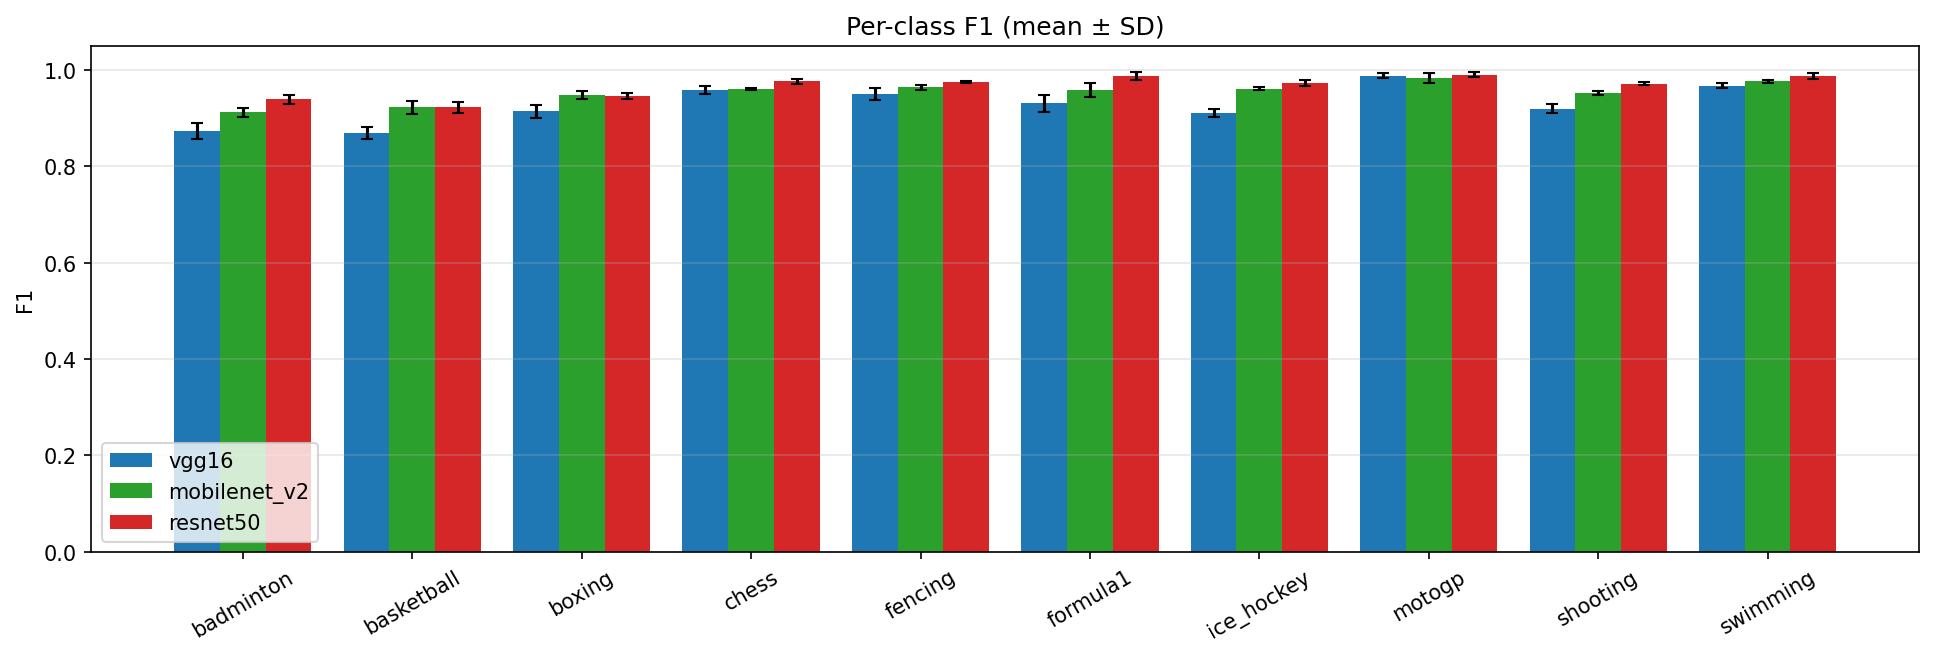
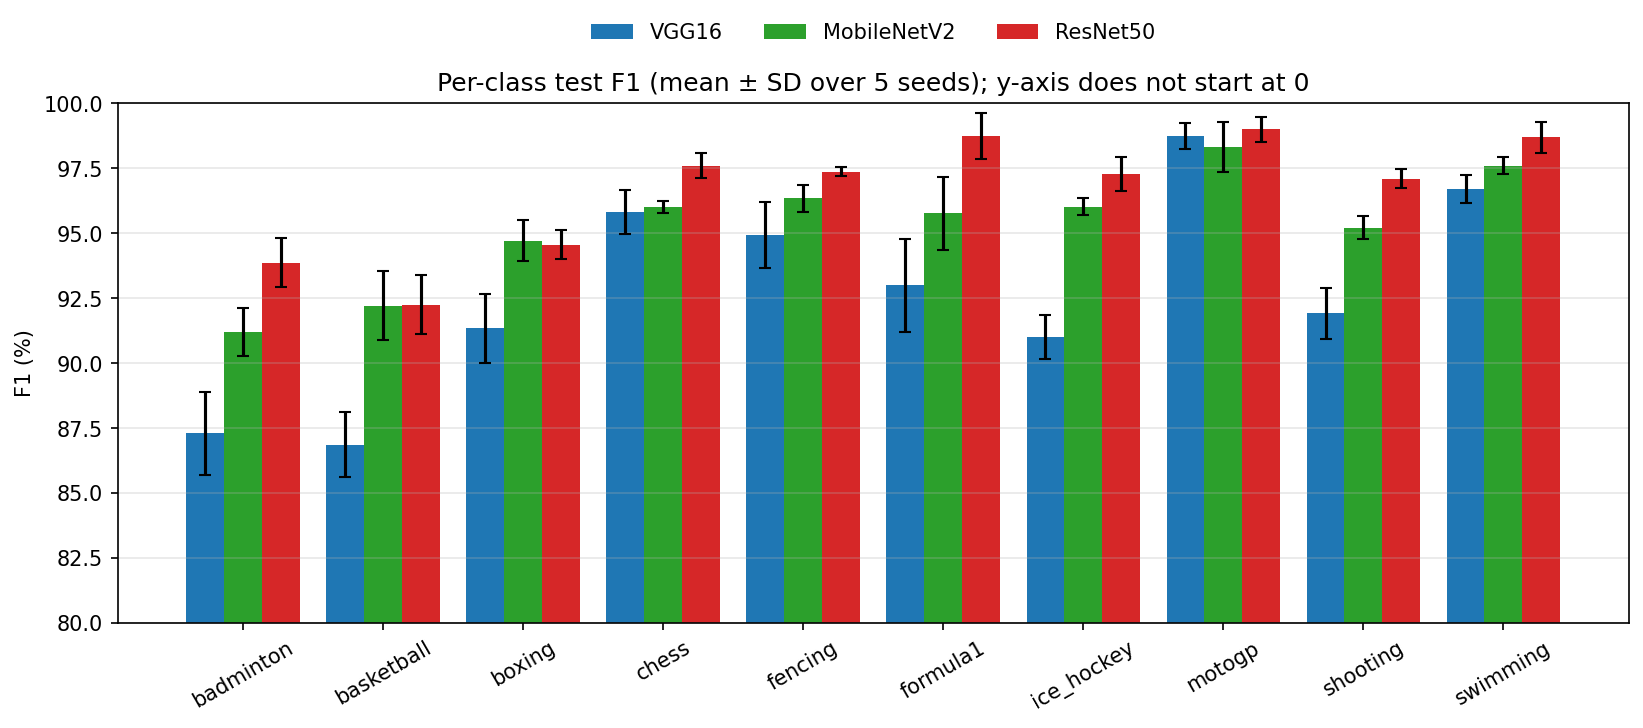
Add scripts to replot figures and log WandB runs
- Introduced `replot_figures.py` to regenerate figures comparing models from CSV data without retraining.
- Added new CSV file `wandb_runs.csv` to log various model training runs and their metrics.
- Updated figures `6_perclass_f1.png` and `7x_strategy_diff.png` to reflect recent changes in model performance.

diff --git a/replot_figures.py b/replot_figures.py
@@ -1,0 +1,69 @@
+"""Redraw the figures that compare models, from the CSVs in outputs/ (no re-training, notebook untouched).
+
+Usage (from the repo root):
+    python replot_figures.py            # overwrites outputs/figs/6_perclass_f1.png and 7x_strategy_diff.png
+
+Every model uses the same colour and display name in every figure (same colours as COLORS in the notebook).
+Note: re-running the notebook overwrites these two PNGs with its own versions; run this script again afterwards.
+"""
+import re
+from pathlib import Path
+
+import matplotlib
+matplotlib.use('Agg')
+import matplotlib.pyplot as plt
+import pandas as pd
+
+OUT = Path('outputs')
+ARCHS = ['vgg16', 'mobilenet_v2', 'resnet50']
+NAMES = {'vgg16': 'VGG16', 'mobilenet_v2': 'MobileNetV2', 'resnet50': 'ResNet50'}
+COLORS = {'vgg16': 'tab:blue', 'mobilenet_v2': 'tab:green', 'resnet50': 'tab:red'}
+
+
+def mean_sd(s):                                   # "87.29 ± 1.58" -> (87.29, 1.58)
+    m, sd = str(s).split('±')
+    return float(m), float(sd)
+
+
+def savefig(fig, name):
+    fig.savefig(OUT / 'figs' / f'{name}.png', dpi=150, bbox_inches='tight')
+    plt.close(fig)
+    print('saved', OUT / 'figs' / f'{name}.png')
+
+
+def perclass_f1():
+    d = pd.read_csv(OUT / 'perclass_f1.csv', index_col=0)
+    classes, w = list(d.index), 0.27
+    fig, ax = plt.subplots(figsize=(13, 4.5))
+    lo = 100
+    for j, a in enumerate(ARCHS):
+        m, sd = zip(*d[a].map(mean_sd))
+        ax.bar([i + (j - 1) * w for i in range(len(classes))], m, w, yerr=sd, capsize=3,
+               label=NAMES[a], color=COLORS[a])
+        lo = min(lo, min(x - s for x, s in zip(m, sd)))
+    ax.set_xticks(range(len(classes))); ax.set_xticklabels(classes, rotation=30)
+    ax.set_ylim(max(0, (lo // 5) * 5 - 5), 100)     # zoom in: all F1 values are well above 80%
+    ax.set_ylabel('F1 (%)'); ax.grid(axis='y', alpha=.3)
+    ax.set_title('Per-class test F1 (mean ± SD over 5 seeds); y-axis does not start at 0')
+    ax.legend(ncol=3, loc='lower center', bbox_to_anchor=(0.5, 1.08), frameon=False)
+    savefig(fig, '6_perclass_f1')
+
+
+def strategy_diff():
+    s = pd.read_csv(OUT / 'strategy_comparison.csv')
+    s = s[s.metric == 'test macro-F1'].set_index('arch')
+    fig, ax = plt.subplots(figsize=(6.5, 2.8))
+    for i, a in enumerate(ARCHS):
+        diff, lo, hi = map(float, re.findall(r'[+-]?\d+\.\d+', s.loc[a, 'diff LB−FZ (pp) [95% CI]']))
+        ax.errorbar(diff, i, xerr=[[diff - lo], [hi - diff]], fmt='o', capsize=4, color=COLORS[a])
+        ax.annotate(f"{diff:+.2f} pp, p_adj = {float(s.loc[a, 'p adj (Bonferroni ×3)']):.3g}", (hi, i),
+                    xytext=(6, 0), textcoords='offset points', va='center', fontsize=8)
+    ax.axvline(0, c='k', lw=.8); ax.set_yticks(range(len(ARCHS))); ax.set_yticklabels([NAMES[a] for a in ARCHS])
+    ax.set_xlim(right=ax.get_xlim()[1] + 1.5)        # room for the labels
+    ax.set_xlabel('test macro-F1 difference, last_block − frozen (pp), 95% CI'); ax.grid(alpha=.3)
+    savefig(fig, '7x_strategy_diff')
+
+
+if __name__ == '__main__':
+    perclass_f1()
+    strategy_diff()

diff --git a/README.md b/README.md
@@ -184,7 +184,7 @@ The **same head structure** is used for all 3 backbones, so only the backbones d
 | LR scheduler | CosineAnnealingLR (T_max = epochs) |
 | Epochs / batch size | 12 / 32 (fixed) |
 | Model selection | Checkpoint of the epoch with the highest **val macro-F1** |
-| Hardware | ✏ e.g. Mac mini (Apple M_, MPS) / Colab T4 |
+| Hardware | Mac mini (Apple M4: 10-core CPU, 10-core GPU, 16 GB), PyTorch MPS backend. About 20.0 h of training in total: 13.3 h for the 60 sweep runs and 6.7 h for the 30 final runs |
 
 ### 4.2 Hyperparameter tuning: W&B Sweep (Bayesian)
 
@@ -212,13 +212,181 @@ To compare `frozen` and `last_block` fairly, **one sweep is run per architecture
 > ✅ = strategy selected as the main model (higher mean val macro-F1 over the 5 seeds).
 <!-- /AUTO:cfg -->
 
+**Sweep results** (6 sweeps × 10 runs = 60 runs; best val macro-F1 in %, single seed 42):
+
+| Model | Strategy | W&B sweep | Runs | Best val macro-F1 | Median | Worst | Avg. time / run (min) |
+|---|:-:|:-:|:-:|:-:|:-:|:-:|:-:|
+| VGG16 | `frozen` | [`l5l2u9ee`](https://wandb.ai/tetravaal/DADS7202_HW_SportCNN_5/sweeps/l5l2u9ee) | 10 | **93.36** | 93.06 | 92.39 | 17.0 |
+| VGG16 | `last_block` | [`ts2gsyb0`](https://wandb.ai/tetravaal/DADS7202_HW_SportCNN_5/sweeps/ts2gsyb0) | 10 | **94.89** | 94.13 | 93.40 | 19.1 |
+| MobileNetV2 | `frozen` | [`nv0xw6xa`](https://wandb.ai/tetravaal/DADS7202_HW_SportCNN_5/sweeps/nv0xw6xa) | 10 | **94.69** | 94.51 | 91.46 | 7.1 |
+| MobileNetV2 | `last_block` | [`hgzxb3k5`](https://wandb.ai/tetravaal/DADS7202_HW_SportCNN_5/sweeps/hgzxb3k5) | 10 | **96.86** | 96.65 | 95.05 | 7.9 |
+| ResNet50 | `frozen` | [`25htj08f`](https://wandb.ai/tetravaal/DADS7202_HW_SportCNN_5/sweeps/25htj08f) | 10 | **97.88** | 97.61 | 96.27 | 12.9 |
+| ResNet50 | `last_block` | [`g3buomhx`](https://wandb.ai/tetravaal/DADS7202_HW_SportCNN_5/sweeps/g3buomhx) | 10 | **98.13** | 97.83 | 96.94 | 15.6 |
+
+> † The 10th ResNet50 `last_block` run (`rgjkw9gx`) finished normally and is in the local `wandb/` folder, but it is missing from the W&B server because two failed final-run attempts later reused its run ID. Its numbers here come from the local folder. Its val macro-F1 (97.44) is below the selected run (98.13), so it does not change the selected config.
+
+**What the sweeps show:**
+- **The learning rate matters most.** For MobileNetV2 and ResNet50, val macro-F1 rises with lr (Pearson r between log lr and val F1 = 0.82–0.95 across the 4 sweeps), and the best runs sit near the top of the range. For VGG16 there is no clear trend (r = −0.27 and 0.02).
+- `hidden = 512` gives a higher mean val F1 than 256 in 5 of the 6 sweeps. The effects of `weight_decay` and `dropout` are small (mostly < 0.5 pp) and change direction between sweeps.
+- The Bayesian search samples unevenly, with some values tried only 1–2 times, so these trends are indicative only.
+
+<details>
+<summary>All sweep runs (sorted by val macro-F1)</summary>
+
+**VGG16 · `frozen`**
+
+| # | Run | lr | weight_decay | hidden | dropout | best val macro-F1 (%) |
+|:-:|---|:-:|:-:|:-:|:-:|:-:|
+| 1 | vgg16-frozen-sweep-2 | 1.28e-04 | 0.0001 | 512 | 0.5 | **93.36** |
+| 2 | vgg16-frozen-sweep-4 | 1.48e-04 | 0.0001 | 512 | 0.5 | 93.28 |
+| 3 | vgg16-frozen-sweep-5 | 1.02e-04 | 0.0001 | 512 | 0.5 | 93.28 |
+| 4 | vgg16-frozen-sweep-7 | 1.41e-04 | 0.0001 | 512 | 0.5 | 93.25 |
+| 5 | vgg16-frozen-sweep-3 | 1.59e-04 | 0.0001 | 256 | 0.5 | 93.09 |
+| 6 | vgg16-frozen-sweep-6 | 1.68e-04 | 0.01 | 512 | 0.5 | 93.03 |
+| 7 | vgg16-frozen-sweep-9 | 1.17e-03 | 0.0001 | 512 | 0.3 | 93.00 |
+| 8 | vgg16-frozen-sweep-10 | 1.27e-03 | 0.01 | 512 | 0.3 | 92.73 |
+| 9 | vgg16-frozen-sweep-8 | 2.45e-04 | 0.01 | 512 | 0.5 | 92.48 |
+| 10 | vgg16-frozen-sweep-1 | 1.11e-04 | 0.0001 | 256 | 0.3 | 92.39 |
+
+**VGG16 · `last_block`**
+
+| # | Run | lr | weight_decay | hidden | dropout | best val macro-F1 (%) |
+|:-:|---|:-:|:-:|:-:|:-:|:-:|
+| 1 | vgg16-last_block-sweep-1 | 1.50e-03 | 0.0001 | 512 | 0.3 | **94.89** |
+| 2 | vgg16-last_block-sweep-9 | 3.31e-04 | 0.01 | 512 | 0.5 | 94.62 |
+| 3 | vgg16-last_block-sweep-8 | 6.57e-04 | 0.01 | 512 | 0.3 | 94.56 |
+| 4 | vgg16-last_block-sweep-10 | 2.20e-04 | 0.01 | 512 | 0.5 | 94.38 |
+| 5 | vgg16-last_block-sweep-5 | 2.06e-04 | 0.0001 | 256 | 0.3 | 94.18 |
+| 6 | vgg16-last_block-sweep-4 | 1.85e-03 | 0.0001 | 512 | 0.5 | 94.08 |
+| 7 | vgg16-last_block-sweep-6 | 1.87e-04 | 0.0001 | 512 | 0.3 | 93.96 |
+| 8 | vgg16-last_block-sweep-2 | 1.96e-04 | 0.01 | 256 | 0.3 | 93.93 |
+| 9 | vgg16-last_block-sweep-3 | 2.18e-04 | 0.0001 | 512 | 0.3 | 93.93 |
+| 10 | vgg16-last_block-sweep-7 | 1.80e-03 | 0.0001 | 512 | 0.3 | 93.40 |
+
+**MobileNetV2 · `frozen`**
+
+| # | Run | lr | weight_decay | hidden | dropout | best val macro-F1 (%) |
+|:-:|---|:-:|:-:|:-:|:-:|:-:|
+| 1 | mobilenet_v2-frozen-sweep-2 | 1.52e-03 | 0.01 | 512 | 0.3 | **94.69** |
+| 2 | mobilenet_v2-frozen-sweep-8 | 1.43e-03 | 0.01 | 512 | 0.3 | 94.60 |
+| 3 | mobilenet_v2-frozen-sweep-7 | 1.60e-03 | 0.01 | 512 | 0.3 | 94.59 |
+| 4 | mobilenet_v2-frozen-sweep-6 | 1.25e-03 | 0.01 | 512 | 0.3 | 94.59 |
+| 5 | mobilenet_v2-frozen-sweep-10 | 1.13e-03 | 0.01 | 512 | 0.5 | 94.52 |
+| 6 | mobilenet_v2-frozen-sweep-4 | 1.62e-03 | 0.0001 | 512 | 0.3 | 94.50 |
+| 7 | mobilenet_v2-frozen-sweep-9 | 1.10e-03 | 0.01 | 512 | 0.5 | 94.40 |
+| 8 | mobilenet_v2-frozen-sweep-5 | 1.81e-03 | 0.01 | 512 | 0.3 | 94.32 |
+| 9 | mobilenet_v2-frozen-sweep-1 | 2.16e-04 | 0.0001 | 256 | 0.3 | 93.31 |
+| 10 | mobilenet_v2-frozen-sweep-3 | 1.01e-04 | 0.01 | 256 | 0.5 | 91.46 |
+
+**MobileNetV2 · `last_block`**
+
+| # | Run | lr | weight_decay | hidden | dropout | best val macro-F1 (%) |
+|:-:|---|:-:|:-:|:-:|:-:|:-:|
+| 1 | mobilenet_v2-last_block-sweep-4 | 1.70e-03 | 0.0001 | 256 | 0.5 | **96.86** |
+| 2 | mobilenet_v2-last_block-sweep-2 | 1.75e-03 | 0.01 | 256 | 0.3 | 96.85 |
+| 3 | mobilenet_v2-last_block-sweep-7 | 1.65e-03 | 0.0001 | 512 | 0.5 | 96.84 |
+| 4 | mobilenet_v2-last_block-sweep-1 | 9.34e-04 | 0.0001 | 512 | 0.3 | 96.75 |
+| 5 | mobilenet_v2-last_block-sweep-8 | 1.79e-03 | 0.01 | 256 | 0.3 | 96.65 |
+| 6 | mobilenet_v2-last_block-sweep-9 | 8.88e-04 | 0.0001 | 512 | 0.3 | 96.65 |
+| 7 | mobilenet_v2-last_block-sweep-5 | 1.56e-03 | 0.0001 | 512 | 0.3 | 96.46 |
+| 8 | mobilenet_v2-last_block-sweep-3 | 6.59e-04 | 0.0001 | 512 | 0.5 | 95.88 |
+| 9 | mobilenet_v2-last_block-sweep-6 | 3.28e-04 | 0.01 | 256 | 0.3 | 95.38 |
+| 10 | mobilenet_v2-last_block-sweep-10 | 2.09e-04 | 0.0001 | 512 | 0.5 | 95.05 |
+
+**ResNet50 · `frozen`**
+
+| # | Run | lr | weight_decay | hidden | dropout | best val macro-F1 (%) |
+|:-:|---|:-:|:-:|:-:|:-:|:-:|
+| 1 | resnet50-frozen-sweep-4 | 1.05e-03 | 0.01 | 512 | 0.3 | **97.88** |
+| 2 | resnet50-frozen-sweep-9 | 9.85e-04 | 0.01 | 512 | 0.3 | 97.88 |
+| 3 | resnet50-frozen-sweep-10 | 9.26e-04 | 0.01 | 512 | 0.5 | 97.86 |
+| 4 | resnet50-frozen-sweep-7 | 1.47e-03 | 0.01 | 512 | 0.5 | 97.77 |
+| 5 | resnet50-frozen-sweep-8 | 7.94e-04 | 0.01 | 512 | 0.3 | 97.69 |
+| 6 | resnet50-frozen-sweep-6 | 1.57e-03 | 0.01 | 512 | 0.5 | 97.53 |
+| 7 | resnet50-frozen-sweep-2 | 1.68e-03 | 0.0001 | 512 | 0.3 | 97.51 |
+| 8 | resnet50-frozen-sweep-3 | 4.41e-04 | 0.01 | 256 | 0.3 | 97.41 |
+| 9 | resnet50-frozen-sweep-5 | 2.01e-04 | 0.01 | 256 | 0.5 | 96.54 |
+| 10 | resnet50-frozen-sweep-1 | 1.37e-04 | 0.01 | 256 | 0.3 | 96.27 |
+
+**ResNet50 · `last_block`**
+
+| # | Run | lr | weight_decay | hidden | dropout | best val macro-F1 (%) |
+|:-:|---|:-:|:-:|:-:|:-:|:-:|
+| 1 | resnet50-last_block-sweep-4 | 9.84e-04 | 0.0001 | 512 | 0.5 | **98.13** |
+| 2 | resnet50-last_block-sweep-2 | 8.51e-04 | 0.01 | 256 | 0.5 | 98.05 |
+| 3 | resnet50-last_block-sweep-9 | 1.26e-03 | 0.01 | 512 | 0.5 | 98.05 |
+| 4 | resnet50-last_block-sweep-5 | 9.25e-04 | 0.0001 | 512 | 0.5 | 98.03 |
+| 5 | resnet50-last_block-sweep-7 | 1.06e-03 | 0.01 | 512 | 0.5 | 97.87 |
+| 6 | resnet50-last_block-sweep-3 | 6.28e-04 | 0.01 | 512 | 0.5 | 97.79 |
+| 7 | resnet50-last_block-sweep-1 | 5.99e-04 | 0.01 | 256 | 0.3 | 97.76 |
+| 8 | resnet50-last_block-sweep-8 | 1.72e-03 | 0.01 | 512 | 0.5 | 97.68 |
+| 9 | resnet50-last_block-sweep-10 † | 4.09e-04 | 0.01 | 512 | 0.5 | 97.44 |
+| 10 | resnet50-last_block-sweep-6 | 1.52e-04 | 0.01 | 256 | 0.3 | 96.94 |
+
+</details>
+
+Raw data of all 90 runs (config, val/test metrics, run time; column `source` shows whether a row comes from the W&B API or the local `wandb/` folder): [`outputs/wandb_runs.csv`](outputs/wandb_runs.csv).
+
 ### 4.3 Final runs and strategy selection
 
 1. The best configuration of **both strategies** is re-trained from scratch with **5 seeds** (`0–4`).
 2. For each architecture, the strategy with the higher **mean val macro-F1** becomes the main model. The choice is made on validation only, never on test.
 3. Results are reported on the test set as mean ± SD over the 5 seeds.
 
-🔗 W&B project: [wandb.ai/tetravaal/DADS7202_HW_SportCNN_5](https://wandb.ai/tetravaal/DADS7202_HW_SportCNN_5) (6 sweeps + 30 final runs)
+**Final runs:** 3 models × 2 strategies × 5 seeds = 30 runs, all finished. Values are mean ± SD over seeds 0–4. ✅ marks the strategy with the higher mean **val** macro-F1, which becomes the main model.
+
+| Model | Strategy | Runs | Val macro-F1 (%) | Test macro-F1 (%) | Test accuracy (%) | Avg. time / run (min) |
+|---|:-:|:-:|:-:|:-:|:-:|:-:|
+| VGG16 | `frozen` | 5 | 92.81 ± 0.22 | 92.48 ± 0.35 | 92.50 ± 0.36 | 17.3 |
+| VGG16 | `last_block` ✅ | 5 | 94.03 ± 0.25 | 92.76 ± 0.15 | 92.80 ± 0.14 | 19.4 |
+| MobileNetV2 | `frozen` | 5 | 94.73 ± 0.43 | 93.34 ± 0.42 | 93.37 ± 0.43 | 7.1 |
+| MobileNetV2 | `last_block` ✅ | 5 | 96.68 ± 0.31 | 95.34 ± 0.54 | 95.31 ± 0.53 | 7.9 |
+| ResNet50 | `frozen` | 5 | 97.56 ± 0.14 | 96.25 ± 0.15 | 96.20 ± 0.16 | 13.1 |
+| ResNet50 | `last_block` ✅ | 5 | 97.81 ± 0.30 | 96.64 ± 0.19 | 96.61 ± 0.19 | 15.8 |
+
+- `last_block` wins on validation for all 3 models, and the test set agrees in every case.
+- Test macro-F1 is **below val** for every configuration: about 1.2–1.4 pp for most, and 0.3 pp for VGG16 `frozen`. Val was used to pick the hyperparameters, the best epoch and the strategy, so it is optimistically biased, which is why only test scores are reported as results. The ranking of the models is the same on val and test.
+- In 5 of the 6 configs, the best sweep run (seed 42) scores higher than the 5-seed mean of the same config, e.g. 98.13 vs. 97.81 for ResNet50 `last_block`. This "winner's curse" is why the configs are re-trained with fresh seeds instead of reusing the sweep score.
+
+<details>
+<summary>All 30 final runs (per seed)</summary>
+
+| Model | Strategy | Seed | Run | Val macro-F1 (%) | Test macro-F1 (%) | Test accuracy (%) |
+|---|:-:|:-:|---|:-:|:-:|:-:|
+| VGG16 | `frozen` | 0 | strat_frozen-vgg16-s0 | 92.96 | 92.95 | 92.97 |
+| VGG16 | `frozen` | 1 | strat_frozen-vgg16-s1 | 92.48 | 92.10 | 92.10 |
+| VGG16 | `frozen` | 2 | strat_frozen-vgg16-s2 | 92.71 | 92.67 | 92.71 |
+| VGG16 | `frozen` | 3 | strat_frozen-vgg16-s3 | 92.95 | 92.19 | 92.19 |
+| VGG16 | `frozen` | 4 | strat_frozen-vgg16-s4 | 92.97 | 92.51 | 92.53 |
+| VGG16 | `last_block` | 0 | strat_last_block-vgg16-s0 | 94.45 | 92.94 | 92.97 |
+| VGG16 | `last_block` | 1 | strat_last_block-vgg16-s1 | 94.02 | 92.79 | 92.80 |
+| VGG16 | `last_block` | 2 | strat_last_block-vgg16-s2 | 93.92 | 92.57 | 92.62 |
+| VGG16 | `last_block` | 3 | strat_last_block-vgg16-s3 | 93.95 | 92.86 | 92.88 |
+| VGG16 | `last_block` | 4 | strat_last_block-vgg16-s4 | 93.80 | 92.65 | 92.71 |
+| MobileNetV2 | `frozen` | 0 | strat_frozen-mobilenet_v2-s0 | 95.41 | 93.47 | 93.49 |
+| MobileNetV2 | `frozen` | 1 | strat_frozen-mobilenet_v2-s1 | 94.49 | 93.21 | 93.23 |
+| MobileNetV2 | `frozen` | 2 | strat_frozen-mobilenet_v2-s2 | 94.32 | 93.80 | 93.84 |
+| MobileNetV2 | `frozen` | 3 | strat_frozen-mobilenet_v2-s3 | 94.55 | 92.69 | 92.71 |
+| MobileNetV2 | `frozen` | 4 | strat_frozen-mobilenet_v2-s4 | 94.87 | 93.55 | 93.58 |
+| MobileNetV2 | `last_block` | 0 | strat_last_block-mobilenet_v2-s0 | 96.48 | 95.51 | 95.49 |
+| MobileNetV2 | `last_block` | 1 | strat_last_block-mobilenet_v2-s1 | 97.18 | 95.25 | 95.23 |
+| MobileNetV2 | `last_block` | 2 | strat_last_block-mobilenet_v2-s2 | 96.81 | 95.58 | 95.57 |
+| MobileNetV2 | `last_block` | 3 | strat_last_block-mobilenet_v2-s3 | 96.45 | 94.46 | 94.44 |
+| MobileNetV2 | `last_block` | 4 | strat_last_block-mobilenet_v2-s4 | 96.49 | 95.87 | 95.83 |
+| ResNet50 | `frozen` | 0 | strat_frozen-resnet50-s0 | 97.42 | 96.25 | 96.18 |
+| ResNet50 | `frozen` | 1 | strat_frozen-resnet50-s1 | 97.50 | 96.37 | 96.35 |
+| ResNet50 | `frozen` | 2 | strat_frozen-resnet50-s2 | 97.60 | 96.04 | 96.01 |
+| ResNet50 | `frozen` | 3 | strat_frozen-resnet50-s3 | 97.78 | 96.41 | 96.35 |
+| ResNet50 | `frozen` | 4 | strat_frozen-resnet50-s4 | 97.52 | 96.19 | 96.09 |
+| ResNet50 | `last_block` | 0 | strat_last_block-resnet50-s0 | 98.06 | 96.41 | 96.35 |
+| ResNet50 | `last_block` | 1 | strat_last_block-resnet50-s1 | 97.97 | 96.91 | 96.88 |
+| ResNet50 | `last_block` | 2 | strat_last_block-resnet50-s2 | 97.40 | 96.64 | 96.61 |
+| ResNet50 | `last_block` | 3 | strat_last_block-resnet50-s3 | 98.04 | 96.53 | 96.53 |
+| ResNet50 | `last_block` | 4 | strat_last_block-resnet50-s4 | 97.58 | 96.71 | 96.70 |
+
+</details>
+
+🔗 W&B project: [wandb.ai/tetravaal/DADS7202_HW_SportCNN_5](https://wandb.ai/tetravaal/DADS7202_HW_SportCNN_5) (6 sweeps × 10 runs + 30 final runs = 90 runs)
 
 [🔝](#highlight)
 
